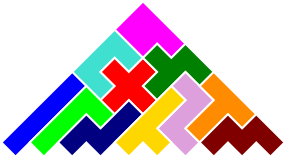
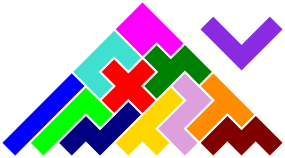
redefined pentominoes triangle puzzle to show omitted piece
git-svn-id: https://svn.code.sf.net/p/puzzler/code/trunk/puzzler@352 2299cb40-9015-0410-805f-d83012bcf56a

diff --git a/puzzler/puzzles/pentominoes.py b/puzzler/puzzles/pentominoes.py
@@ -284,34 +284,62 @@ class PentominoesTriangle(Pentominoes):
     """
 
     height = 10
-    width = 10
+    width = 14
 
-    svg_rotation = 135
+    # These 9 coordinates form a minimal cover for all 12 pentominoes
+    omitted_piece_coordinates = (
+        (11,4), (11,5), (11,6), (12,2), (12,3), (12,4), (12,5), (12,6), (13,4))
+
+    # Since there are only 9 coordinates for the omitted piece, only 1 piece
+    # can fit.  By setting these 9 coordinates as secondary columns, the extra
+    # 4 coordinates are ignored.
+    secondary_columns = 9
+
+    # These are the fixed positions for omitted pieces, to prevent duplicates.
+    omitted_piece_positions = {
+        'F': ((11,4), (11,5), (12,3), (12,4), (13,4)),
+        'I': ((12,2), (12,3), (12,4), (12,5), (12,6)),
+        'L': ((12,2), (12,3), (12,4), (12,5), (11,5)),
+        'N': ((12,2), (12,3), (12,4), (11,4), (11,5)),
+        'P': ((11,4), (11,5), (11,6), (12,5), (12,6)),
+        'T': ((12,2), (12,3), (12,4), (11,4), (13,4)),
+        'U': ((11,4), (11,5), (11,6), (12,4), (12,6)),
+        'V': ((11,4), (11,5), (11,6), (12,4), (13,4)),
+        'W': ((11,5), (11,6), (12,4), (12,5), (13,4)),
+        'X': ((11,4), (12,3), (12,4), (12,5), (13,4)),
+        'Y': ((12,2), (12,3), (12,4), (12,5), (11,4)),
+        'Z': ((12,4), (12,5), (12,6), (11,6), (13,4)),}
+
+    svg_rotation = -45
 
     def coordinates(self):
         for y in range(self.height):
-            for x in range(self.width):
-                if x + y < self.height:
+            for x in range(self.height):
+                if x + y >= (self.height - 1) and x < self.height:
                     yield (x, y)
+        for coord in self.omitted_piece_coordinates:
+            yield coord
 
     def customize_piece_data(self):
-        self.piece_data['!'] = ((), {})
         self.piece_data['P'][-1]['flips'] = None
 
     def build_matrix(self):
         self.build_rows_for_omitted_pieces()
-        keys = set(self.piece_data.keys())
-        keys.remove('!')
-        self.build_regular_matrix(sorted(keys))
+        self.build_regular_matrix(sorted(self.piece_data.keys()))
 
     def build_rows_for_omitted_pieces(self):
-        for name in self.piece_data:
-            if name == '!':
-                continue
-            row = [0] * len(self.matrix[0])
-            row[self.matrix_columns['!']] = name
-            row[self.matrix_columns[name]] = name
-            self.matrix.append(row)
+        for key, coords in self.omitted_piece_positions.items():
+            self.build_matrix_row(key, coords)
+
+    def build_regular_matrix(self, keys):
+        for key in keys:
+            for coords, aspect in self.pieces[key]:
+                for y in range(self.height - aspect.bounds[1]):
+                    # can't use self.width; omitted pieces are handled above:
+                    for x in range(self.height - aspect.bounds[0]):
+                        translated = aspect.translate((x, y))
+                        if translated.issubset(self.solution_coords):
+                            self.build_matrix_row(key, translated)
 
 
 class OneSidedPentominoes3x30(OneSidedPentominoes):
